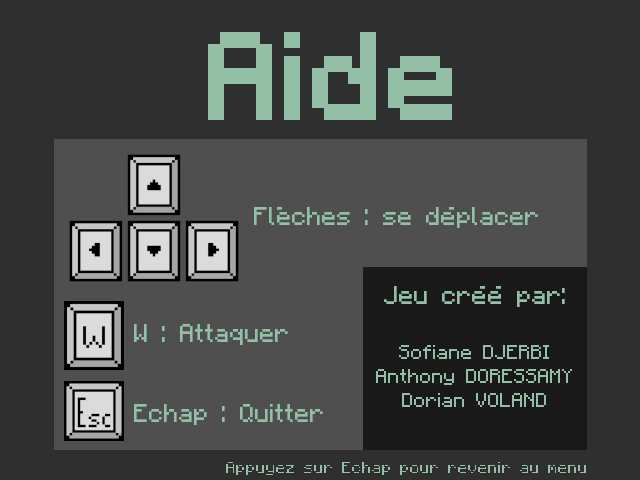
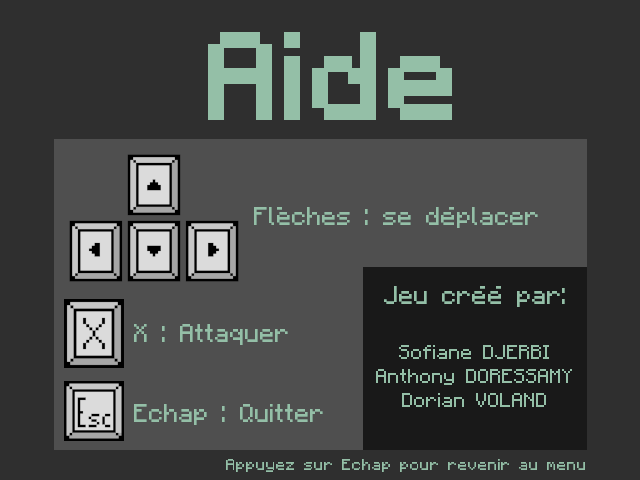
Changement pour azerty

diff --git a/fonctions/jeu.py b/fonctions/jeu.py
@@ -27,11 +27,11 @@ def menu():
             if evenement.type == pg.KEYDOWN:  # Event : Touche enclenchée
                 if evenement.key == pg.K_ESCAPE:  # Si touche = Echappe
                     return  # On quitte la fonction menu
-                elif evenement.key == pg.K_q:  # Si touche = q
+                elif evenement.unicode == "q":  # Si touche = q
                     return  # On quitte la fonction menu
-                elif evenement.key == pg.K_a:  # Si touche = a
+                elif evenement.unicode == "a":  # Si touche = a
                     return aide()  # Quitter la fonction menu et appeller la fonction aide
-                elif evenement.key == pg.K_j:  # Si touche = j
+                elif evenement.unicode == "j":  # Si touche = j
                     return initialiser_jeu()  # Quitter la fonction menu et appeller la fonction init_jeu
             elif evenement.type == pg.QUIT:  # Event : Quitter la fenetre
                 return  # On quitte

diff --git a/constantes/constantes_joueur.py b/constantes/constantes_joueur.py
@@ -19,7 +19,7 @@ touches = {  # Les touches pour les déplacements
     pg.K_LEFT:  [vitesse, 0, "gauche", "marche", True],
     pg.K_DOWN:  [0, -vitesse, "bas", "marche", True],
     pg.K_RIGHT: [-vitesse, 0, "droite", "marche", True],
-    pg.K_w:     [0, 0, None, "attaque", False],
+    pg.K_x:     [0, 0, None, "attaque", False],
 }
 ###############################################################################
 timings = {  # Timings des animations
